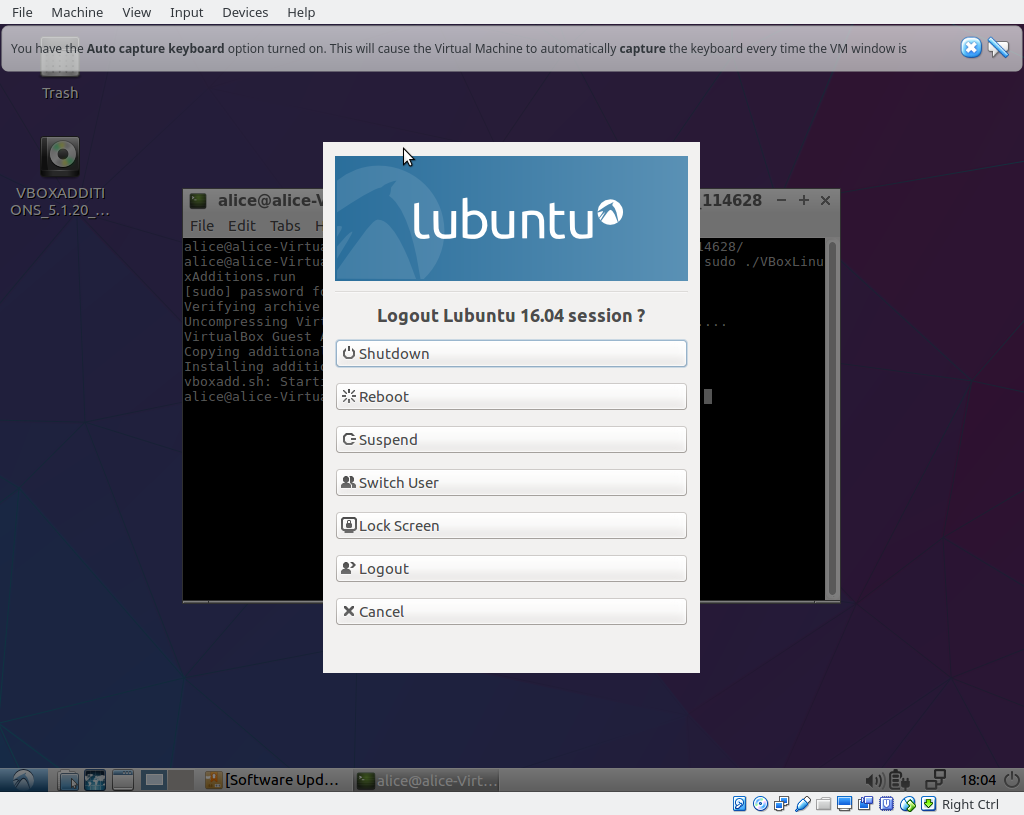
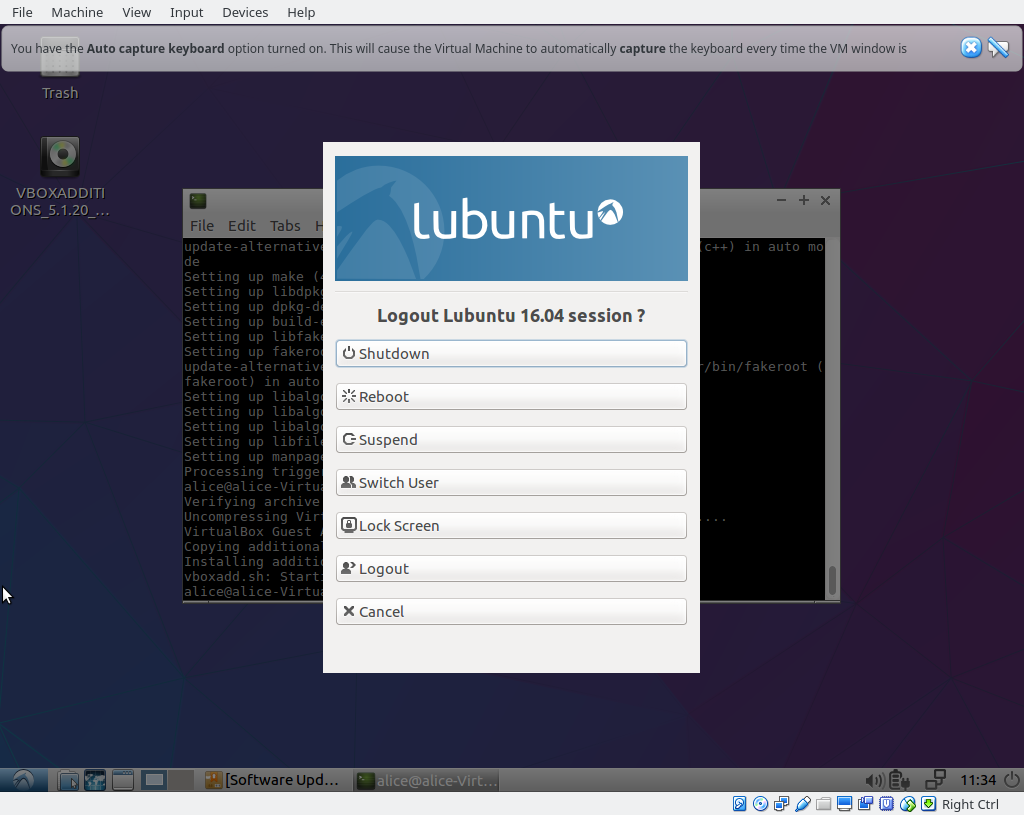
More tweaking of guest install images.

diff --git a/install_virtualization.md b/install_virtualization.md
@@ -348,13 +348,16 @@ virtual machine.
     ![lubuntu_restart](install_images/lubuntu_restart.png)
 
     If this screen, does not disappear in 5 to 10 seconds, it will be necessary
-    to do a sime simple extra steps to finish shutting down the virtual machine.
-    Find the `Machine` pull down menu on the virutual machine and select it.
-    You should see a pull down menut that looks as follows:
+    to do a some simple extra steps to finish shutting down the virtual machine.
+
+    Please go to your virtual box window and find the `UR_SDI_16.04` icon.
+    With your mouse over the the icon, please right click your mouse button
+    to get the following  pull down menu:
 
     ![lubuntu_machine_menu](install_images/lubuntu_machine_menu.png)
 
-    Select the `Close>` menu and you should see a further menu that looks as follows:
+    Select the `Close>` menu and you should see a further pull right menu
+    that looks as follows:
 
     ![lubuntu_power_off_menu](install_images/lubuntu_power_off_menu.png)
 
@@ -368,10 +371,14 @@ Your VirtualBox window should now look as follows:
 
 ![vb_done](install_images/vb_done.png)
 
-You have successfully install lubuntu 16.04 into your `UR_SDE_16.04` virtual machine.
-
+Congratulations, you have just successfully installed lubuntu 16.04 into your
+`UR_SDE_16.04` virtual machine for VirtualBox.
 
 ## Install VirtualBox Guest Additions
+
+The next set of steps is required to install the VirtualBox guest extensions.
+With these extensions, you will be able to do such things are resize the
+virtual window size, etc.
 
 1. Log In to Lubuntu 16.04
 
@@ -424,12 +431,10 @@ You have successfully install lubuntu 16.04 into your `UR_SDE_16.04` virtual mac
 
    Now type the following command:
 
-   ```sudo apt-get install -y build-essential wget```
+   ```sudo apt-get install -y build-essential```
 
    What this command does is install the standard Linux compiler programs
    (collectively called `gcc`) and another program we are going to need called
-   `wget`.  `wget` stands for "web get" and is used to fetch programs from
-   the world wide web via a terminal command.
 
    After you type the command above, you will prompted for a password.
    Please type in the password you used to login with.
@@ -440,26 +445,18 @@ You have successfully install lubuntu 16.04 into your `UR_SDE_16.04` virtual mac
 
 7. Install Guest Edition Software
 
-   Next you will install the guest edition software.  This is done with
-   two commands.  The first command is:
+   Next you will install the guest edition software.  This is done with the
+   following command:
 
-   ```cd /media/*/*```
-
-   The `cd` command stands for `change directory` and the command above moves
-   the focus to the mounted guest extensions CD (mounted in your virtual CD drive.)
-
-   The next command is:
-
-   ```sudo VBoxLinuxAdditions.run```
+   ```sudo /media/*/*/VBoxLinuxExtensions.run```
 
    It will cause the VirtualBox guest additions to be installed.  You may be asked
    to type in a password again.
 
    ![lubuntu_guest_install](install_images/lubuntu_guest_install.png)
 
-    
 
-8. Log Oout and Shut Down
+8. Log Out and Shut Down
 
    Finally, you need to move your mouse curse to the lower right corner and
    click on the power button icon.  This will pop a window that looks as follows:
